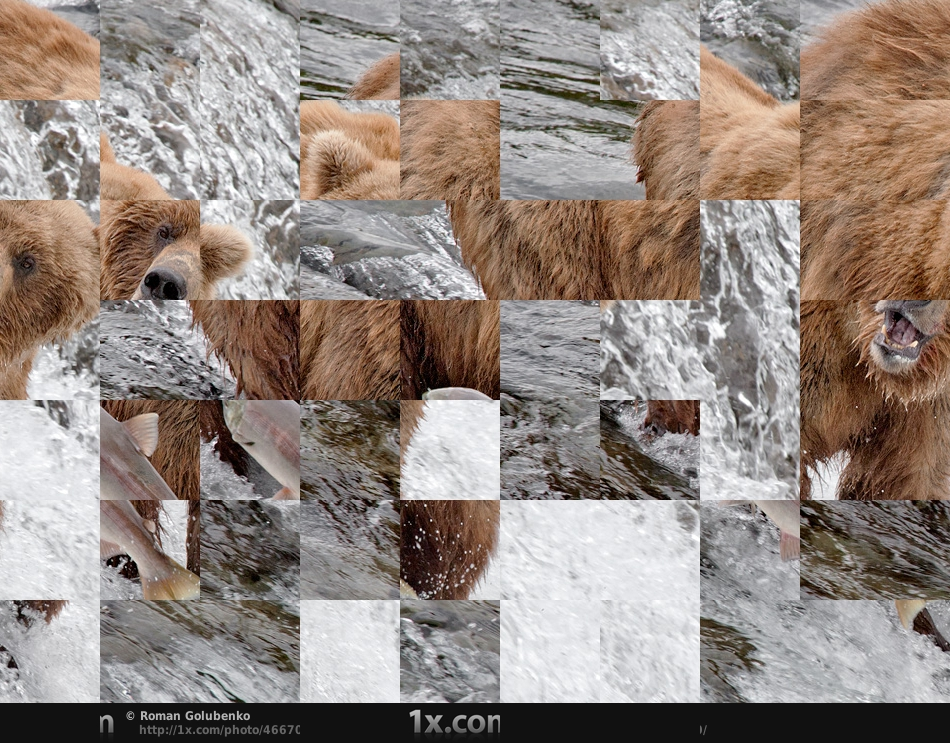
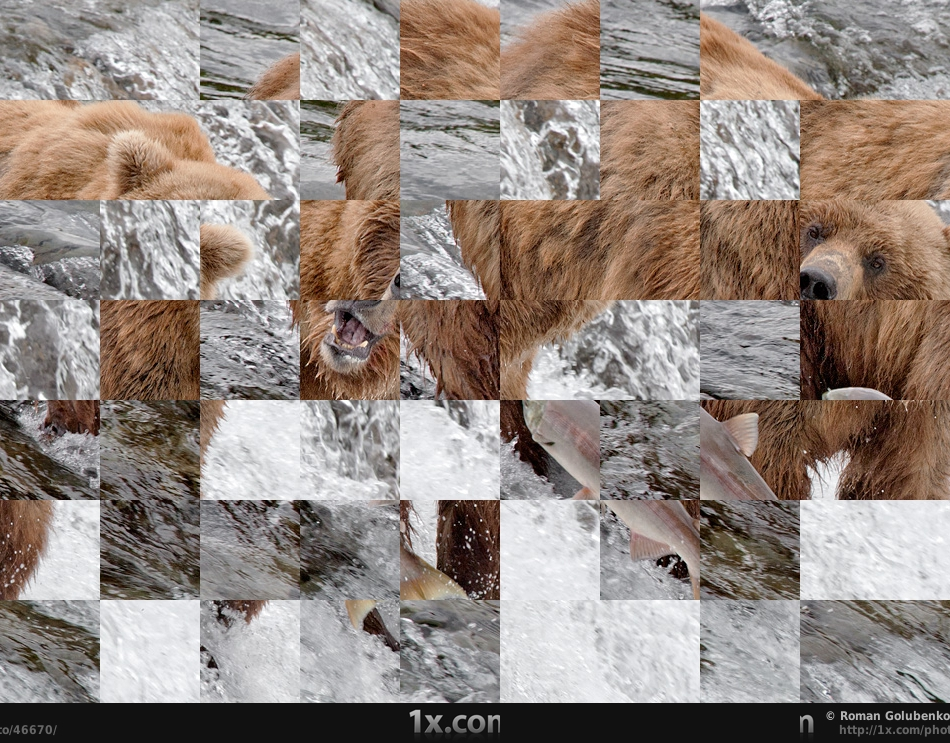
Added comments + fixed image location bug

diff --git a/index.php b/index.php
@@ -9,71 +9,117 @@
 	 * lot more work than they initially thought to steal
 	 * or unscramble the image.
 	 *
-	 * @author Jonathan Stanton
-	 * @website http://www.jastanton.com
+	 * @author Jonathan Stanton <jonathan@jastanton.com>
+	 * @copyright Copyright (c) 2011, Jonathan Stanton
+	 * @link http://www.jastanton.com Personal Website
+	 * @license http://opensource.org/licenses/gpl-license.php GNU Public License
+	  * @version 1.0 
 	 */
 	class scramble {
 		
-		var $block_w = 100;
+ 		/**
+    	* Width in pixels of each column that we divide the picture into
+    	* @var block_w 
+    	*/	
+    	var $block_w = 100;
+
+ 		/**
+    	* Height in pixels of each row that we divide the picture into
+    	* @var block_h 
+    	*/	
 		var $block_h = 100;
+
+ 		/**
+    	* prefix of the outputed scrambled image
+    	* @var block_h 
+    	*/	
 		var $prefix = "shuffled_";
 
+
+		/**
+		 * Constructor loads the image 
+		 *
+		 * @param string $imgname
+		 * @author Jonathan Stanton
+		 */
 		function __construct($imgname) {
 			
 			$this->imgname = $imgname;
+			
+			list($this->dirname, $this->basename, $this->extension, $this->filename) = array_values(pathinfo($imgname));
 
-			$size = @getimagesize($imgname);
+			$this->imaged_shuffled_path = $this->dirname . "/" . $this->prefix . $this->basename;
+
+	
+			$size = @getimagesize($this->imgname);
 			$this->mime = $size["mime"];
+						
 			switch($this->mime){
 				case "image/jpeg":
-					$im = imagecreatefromjpeg($imgname); //jpeg file
+					$this->image = imagecreatefromjpeg($this->imgname); //jpeg file
 					break;
 				case "image/gif":
-					$im = imagecreatefromgif($imgname); //gif file
+					$this->image = imagecreatefromgif($this->imgname); //gif file
 					break;
 				case "image/png":
-					$im = imagecreatefrompng($imgname); //png file
+					$this->image = imagecreatefrompng($this->imgname); //png file
 					break;
 				default: 
-					$im  = imagecreatetruecolor(150, 30);
-					$bgc = imagecolorallocate($im, 255, 255, 255);
-					$tc  = imagecolorallocate($im, 0, 0, 0);
-					
-					imagefilledrectangle($im, 0, 0, 150, 30, $bgc);
-
-					imagestring($im, 1, 5, 5, 'Error loading ' . $imgname, $tc);
+					echo "Error loading $imgname";
+					die(); //fatal
 			}
+			
+			list($this->image_w,$this->image_h) = $size;
 
-			$this->image = $im;
-			$this->image_w = $size[0];
-			$this->image_h = $size[1];
-
+			/* 
+			 	I take the mod of the image divied by the width and the
+			   	height to determine if our block sizes divide evenly. 
+			*/
 			$this->block_w_mod = $this->image_w % $this->block_w;
 			$this->block_h_mod = $this->image_h % $this->block_h;
 		}
 
-
+		/**
+		 * Displays the original image.
+		 *
+		 * @return void
+		 * @author Jonathan Stanton
+		 */
 		public function showOriginal(){
 			echo "<img src='".$this->imgname."' alt=''>";
-
 		}
-
+		
+		/**
+		 * Displays the shuffled image.
+		 *
+		 * @return void
+		 * @author Jonathan Stanton
+		 */
 		public function showShuffled(){
-			echo "<img src='".$this->prefix.$this->imgname."' alt=''>";
+			echo "<img src='".$this->imaged_shuffled_path."' alt=''>";
 		}
-
+		
+		/**
+		 * Scrambles and saves the image.
+		 *
+		 * @return void
+		 * @author Jonathan Stanton
+		 * @todo Save PNG with transparency
+		 */
 		public function scramble(){
-
-			$grid = array();
-
+			
 			$cols = floor($this->image_w / $this->block_w);
 			$rows = floor($this->image_h / $this->block_h);
+
+			$grid = array();
 			
+			/* loop through each block and save the data in a matrix */
 			for ($row=0; $row < $rows; $row++) { 
 				for ($col=0; $col < $cols; $col++) { 
 
 					// if our image doesn't divide evenly into
 					// our block size, some blocks might have to be slightly
+					// larger than others. 
 
 					$width_mod = 0;
 					if($col == $cols - 1 && $this->block_w_mod > 0){	
@@ -92,53 +138,67 @@
 						"x"		  => $col * $this->block_w,
 						"y"       => $row * $this->block_h
 					);
-
 				}
-			}
-
-			$im2 = ImageCreateTrueColor($this->image_w, $this->image_h);
-
-			$cur_row_height = 0;
-			foreach ($grid as $row => $column) {
-				shuffle($column);
-				$shuffledGrid[] = $column;
-				$cur_col_width  = 0;
-				foreach ($column as $col => $data) {
-
-					imagecopyresampled($im2,$this->image,
-						$data["x"],$data["y"],
-						$cur_col_width,$cur_row_height,
-						$data["width"],$data["height"],
-						$data["width"],$data["height"]
-					);
-
-					$cur_col_width += $data["width"];
-				}
-
-				$cur_row_height += $this->block_h;
-				
-
 			}
 			
+			/* create a blank canvas to paint on */
+			$im2 = ImageCreateTrueColor($this->image_w, $this->image_h);
+			
+			$shuffledGrid = array();
+			$cur_row_height = 0;
+			foreach ($grid as $row => $column) {
+				
+				shuffle($column); /* shuffle everything in the row */
+				$shuffledGrid[] = $column;
+				
+				/* 
+					I am beginning to stich the shuffled pieces together
+				   	the idea behind this is to start each row
+				    at the beginning (x) and paste the image, then start
+					with the next block where I just left off (X + prev image width)
+				*/
+				$cur_col_width  = 0; 
+				foreach ($column as $col => $img_data) {
+					imagecopyresampled($im2,$this->image, /* dst_image, src_image */
+						$img_data["x"],$img_data["y"], /* dst_x, dst_y */
+						$cur_col_width,$cur_row_height, /* src_x, src_y */
+						$img_data["width"],$img_data["height"], /* dst_w, dst_h */
+						$img_data["width"],$img_data["height"] /* src_w, src_h */
+					);
+					$cur_col_width += $img_data["width"]; 
+				}
+				$cur_row_height += $this->block_h;
+			}
+			
+			/* 
+				combining the shuffled grid and the non shuffled 
+			   	grid to get an idea of what I am working with.
+			*/
 			$this->shuffledGrid = $this->merge($shuffledGrid,$grid);
 
-			//save
+			//save the image
 			switch($this->mime){
 				case "image/jpeg":
-					imagejpeg($im2, $this->prefix . $this->imgname,100);
+					imagejpeg($im2, $this->imaged_shuffled_path,100); /* 100% jpeg quality*/
 					break;
 				case "image/gif":
-					imagegif($im2, $this->prefix . $this->imgname);
+					imagegif($im2, $this->imaged_shuffled_path);
 					break;
 				case "image/png":
-					imagepng($im2, $this->prefix . $this->imgname);
+					imagepng($im2, $this->imaged_shuffled_path);
 					break;
 			}
-
-			imagedestroy($im2);
-
+			imagedestroy($im2); // ♫ clean up clean up everybody do your share ♫!
 		}
-
+		
+		/**
+		 * Merge array combines two arrays
+		 *
+		 * @param array $arr1 
+		 * @param array $arr2 
+		 * @return void
+		 * @author Jonathan Stanton
+		 */
 		private function merge($arr1,$arr2){
 			foreach ($arr1 as $i => $v1) {
 				foreach ($v1 as $i2 => $v2) {
@@ -146,16 +206,20 @@
 						$arr2[$i][$i2]["new_".$key] = $value;
 					}
 				}
-				
 			}
 			return $arr2;
 		}
 
-
+		/**
+		 * unShuffle and output HTML
+		 *
+		 * @return void
+		 * @author Jonathan Stanton
+		 */
 		public function unShuffle(){
 			$unShuffled = array();
-			foreach ($this->shuffledGrid as $key => $value) {
-				foreach ($value as $index => $data) {
+			foreach ($this->shuffledGrid as $row => $columns) {
+				foreach ($columns as $index => $data) {
 					$unShuffled[$data["row"]][$data["col"]] = array(
 						"x" => $data["new_x"],
 						"y" => $data["new_y"],
@@ -165,17 +229,15 @@
 				}
 			}
 			?>
-				<br /><br /><br />
-				
 				<style>
 					div.container{
-						width : <?= $this->image_w ?>px;
-						height : <?= $this->image_h ?>px;
+						width: <?= $this->image_w ?>px;
+						height: <?= $this->image_h ?>px;
 					}
 					div.container span{
 						display:block;
 						float:left;
-						background-image: url('<?= $this->prefix.$this->imgname ?>');
+						background-image: url('<?= $this->imaged_shuffled_path ?>');
 					}
 					
 					<?php foreach ($unShuffled as $row => $columns): ?>
@@ -198,28 +260,15 @@
 						<?php endforeach ?>
 					<?php endforeach ?>
 				</div>
-
-
 			<?
 		}
 
 	}
 
-	function gentime() {
-	    static $a;
-	    if($a == 0) $a = microtime(true);
-	    else return (string)round((microtime(true)-$a),5);
-	}
-
-	$protected_image = new scramble("bear.jpg");
-	gentime();
+	$protected_image = new scramble("bear.jpg"); /* instantiate */
 	$protected_image->scramble();
-	echo 'Generated in '.gentime().' seconds. <br>';
-
-
 	$protected_image->showShuffled();
 	$protected_image->unShuffle();
-
 	$protected_image->showOriginal();
 
 ?>
